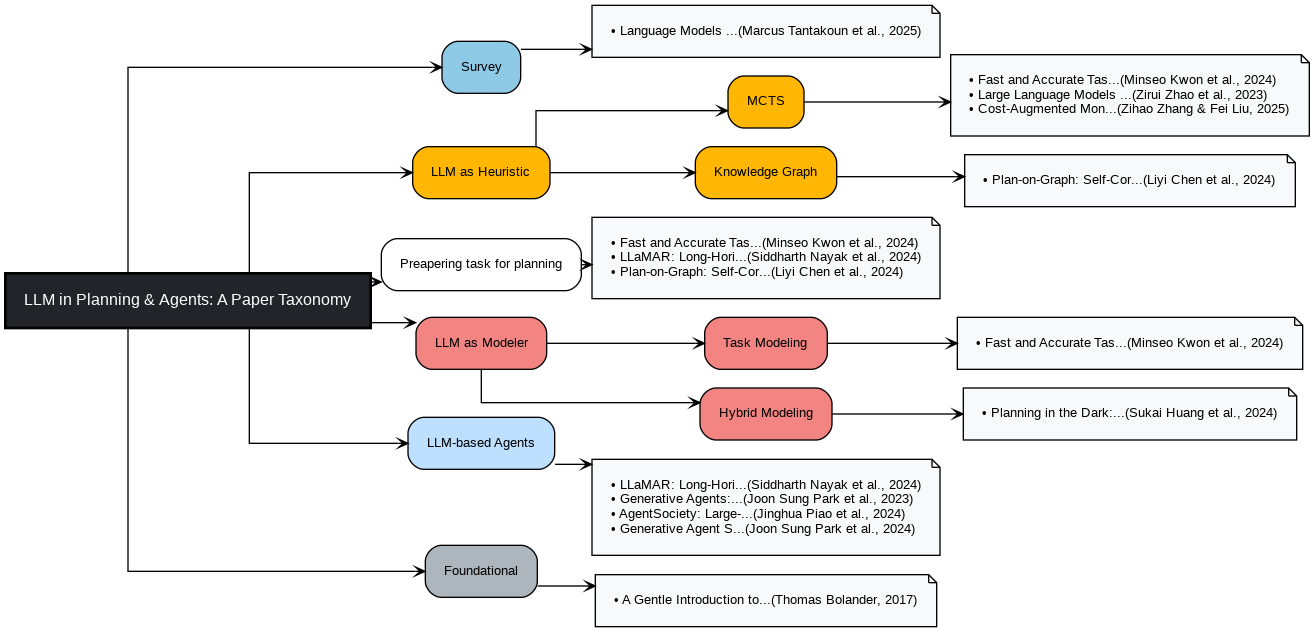
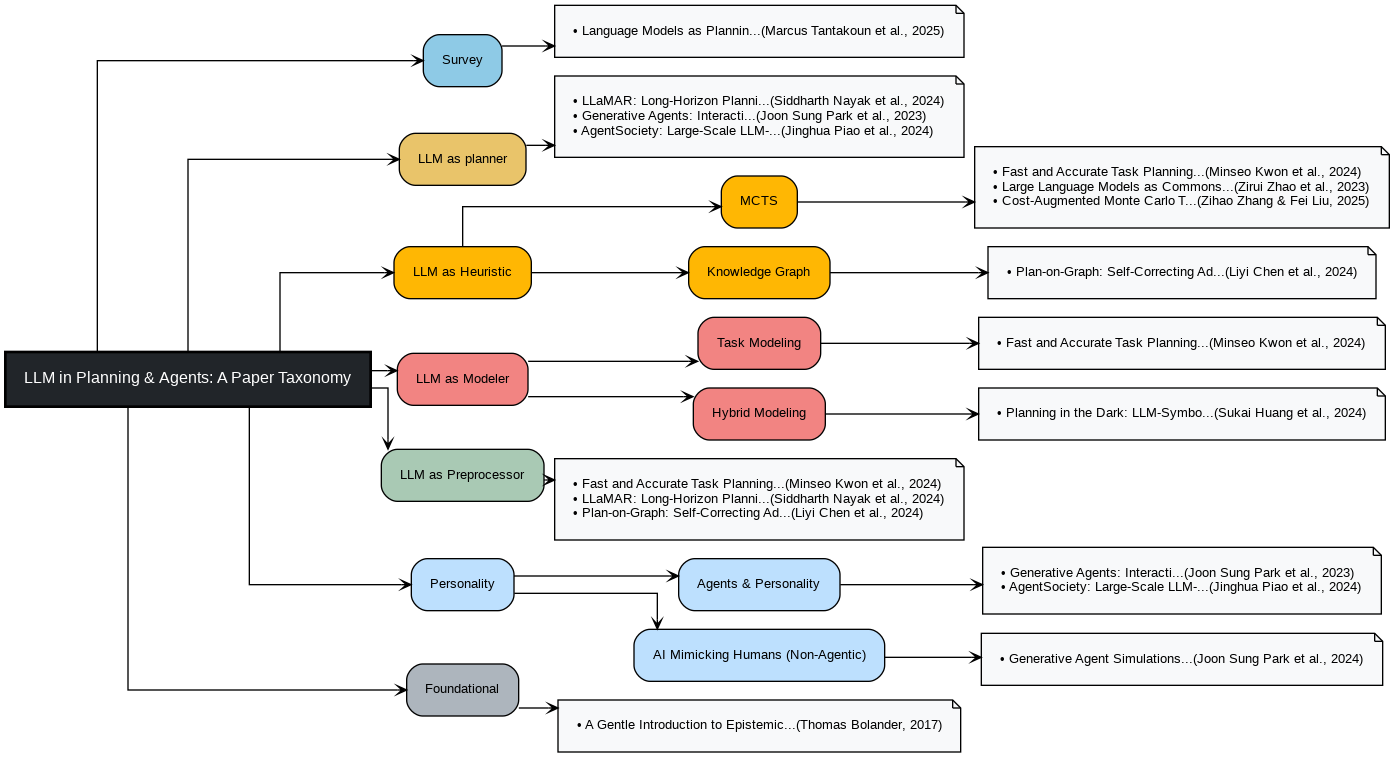
Completed for Jeremi

diff --git a/visualize_taxonomy.py b/visualize_taxonomy.py
@@ -17,18 +17,23 @@ COLOR_MAP = {
     "Survey": "#8ecae6",
     "LLM as Heuristic": "#ffb703",
     "Foundational": "#adb5bd",
-    "Task Decomposition": "#a9c9b4",
+    "LLM as Preprocessor": "#a9c9b4",
     "LLM as Modeler": "#f28482",
-    "LLM-based Agents": "#bde0fe"
+    "Personality": "#bde0fe",
+    "LLM as planner": "#e9c46a"  # Added color for new category
 }
 OUTPUT_FILENAME = 'taxonomy_final.png'
+
+# Maximum number of symbols for node and paper labels
+MAX_NODE_LENGTH = 60  
+MAX_PAPER_LENGTH = 60  
 
 def load_taxonomy(filename="taxonomy.json"):
     """Loads the taxonomy data from a JSON file."""
     with open(filename, 'r') as f:
         return json.load(f)
 
-def truncate_label(text, max_length=30):
+def truncate_label(text, max_length):
     """
     Truncate text to max_length, adding '...' if needed.
     Always preserve author/date in parentheses at the end for papers.
@@ -63,7 +68,7 @@ def add_nodes_edges(dot, node, parent_id, parent_color=None):
     # Draw the category node, then a separate leaf node for the papers.
     if 'papers' in node:
         # Draw the category node
-        label = truncate_label(node_name)
+        label = truncate_label(node_name, max_length=MAX_NODE_LENGTH)
         dot.node(node_id, label=label, fillcolor=color or "#ffffff")
         dot.edge(parent_id, node_id)
         
@@ -71,7 +76,7 @@ def add_nodes_edges(dot, node, parent_id, parent_color=None):
         papers_node_id = f"papers_{node_id}"
         paper_list = []
         for p in node['papers']:
-            paper_label = truncate_label(p, max_length=50)
+            paper_label = truncate_label(p, max_length=MAX_PAPER_LENGTH)
             paper_label = f"• {paper_label}\\l"  # Add bullet point and line break
             paper_list.append(paper_label)
         papers_label = "".join(paper_list)
@@ -87,7 +92,7 @@ def add_nodes_edges(dot, node, parent_id, parent_color=None):
     # Case 2: Node is an intermediate category with children.
     # Draw it and recurse into its children.
     elif 'children' in node:
-        label = truncate_label(node_name)
+        label = truncate_label(node_name, max_length=MAX_NODE_LENGTH)
         # For the structural nodes ("Foundations & Heuristics", etc.), use a plain style
         style = {'fillcolor': color or '#ffffff', 'style': 'filled,dashed', 'fontstyle': 'italic'} if not COLOR_MAP.get(node_name) else {'fillcolor': color}
         dot.node(node_id, label=label, **style)
